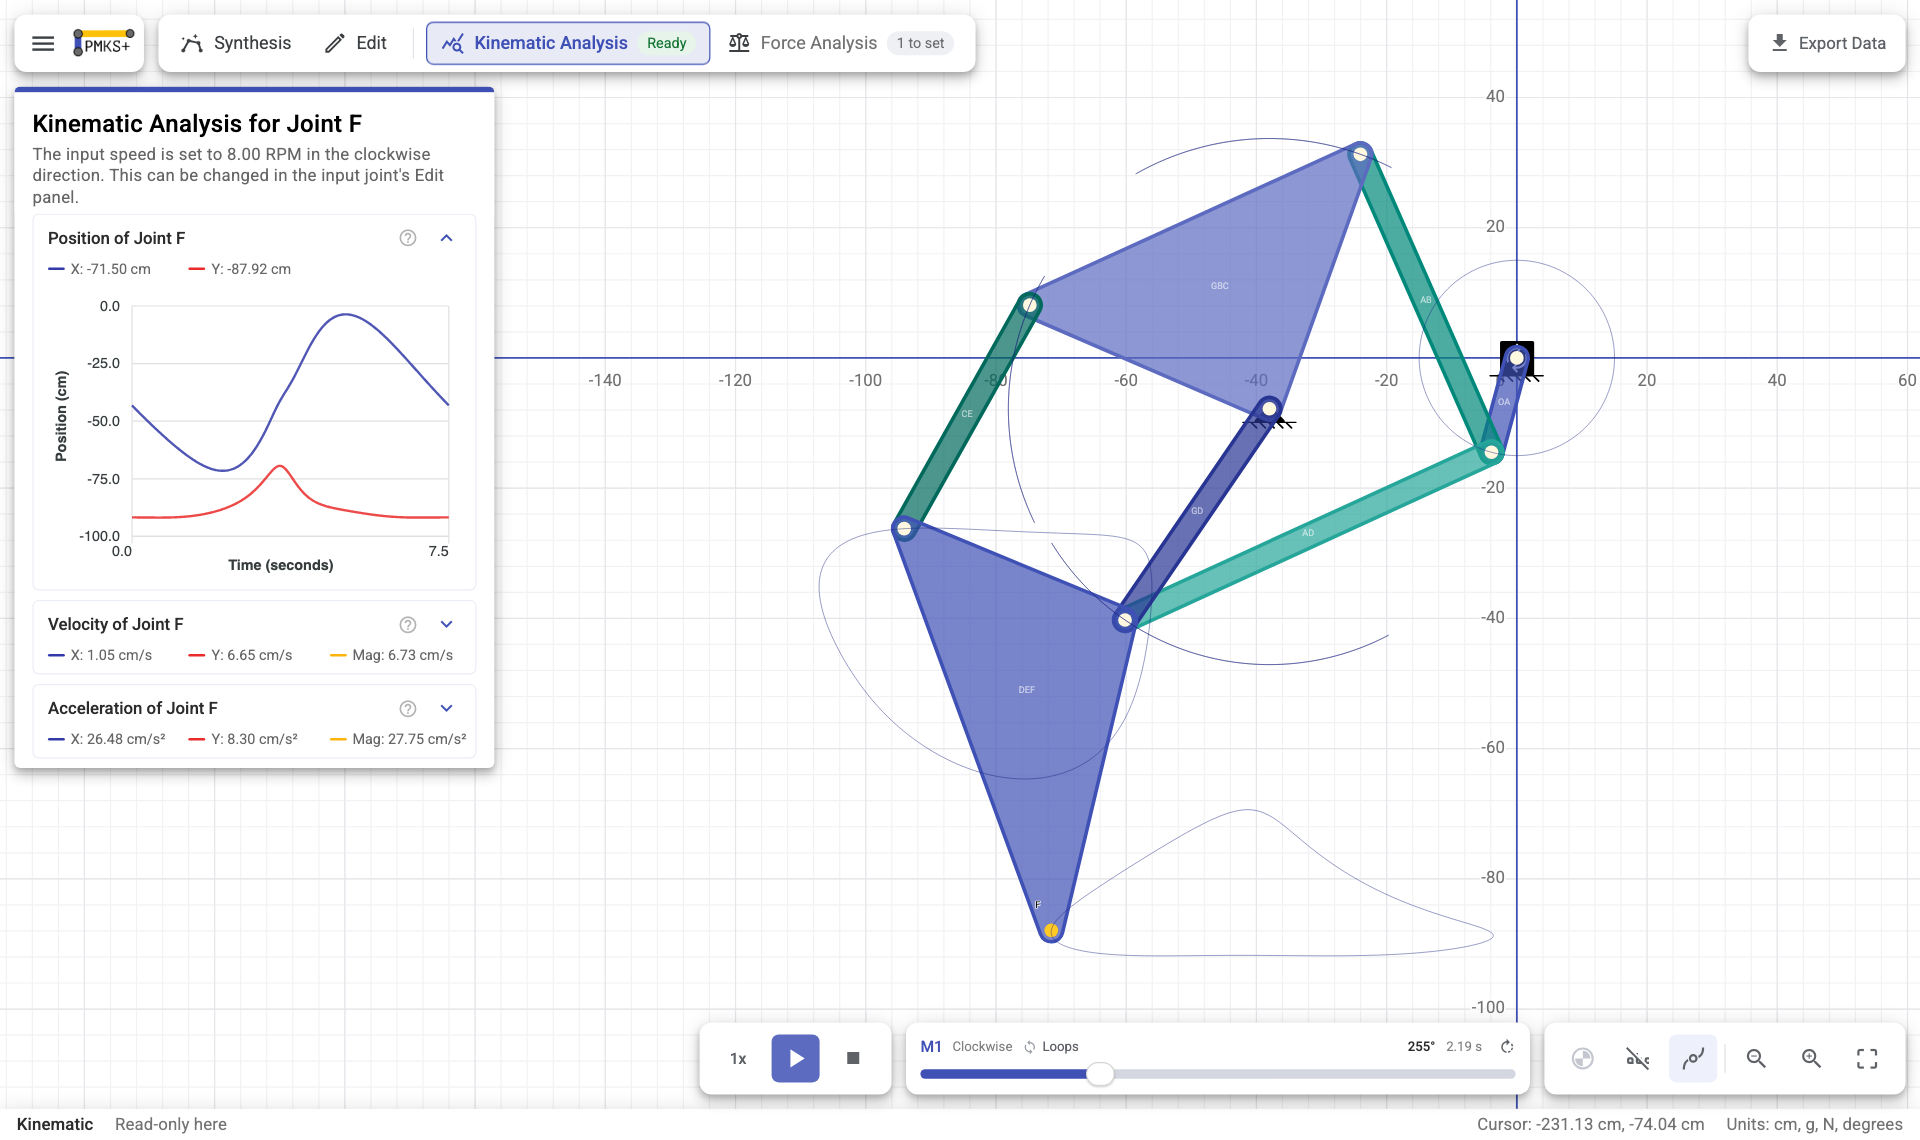
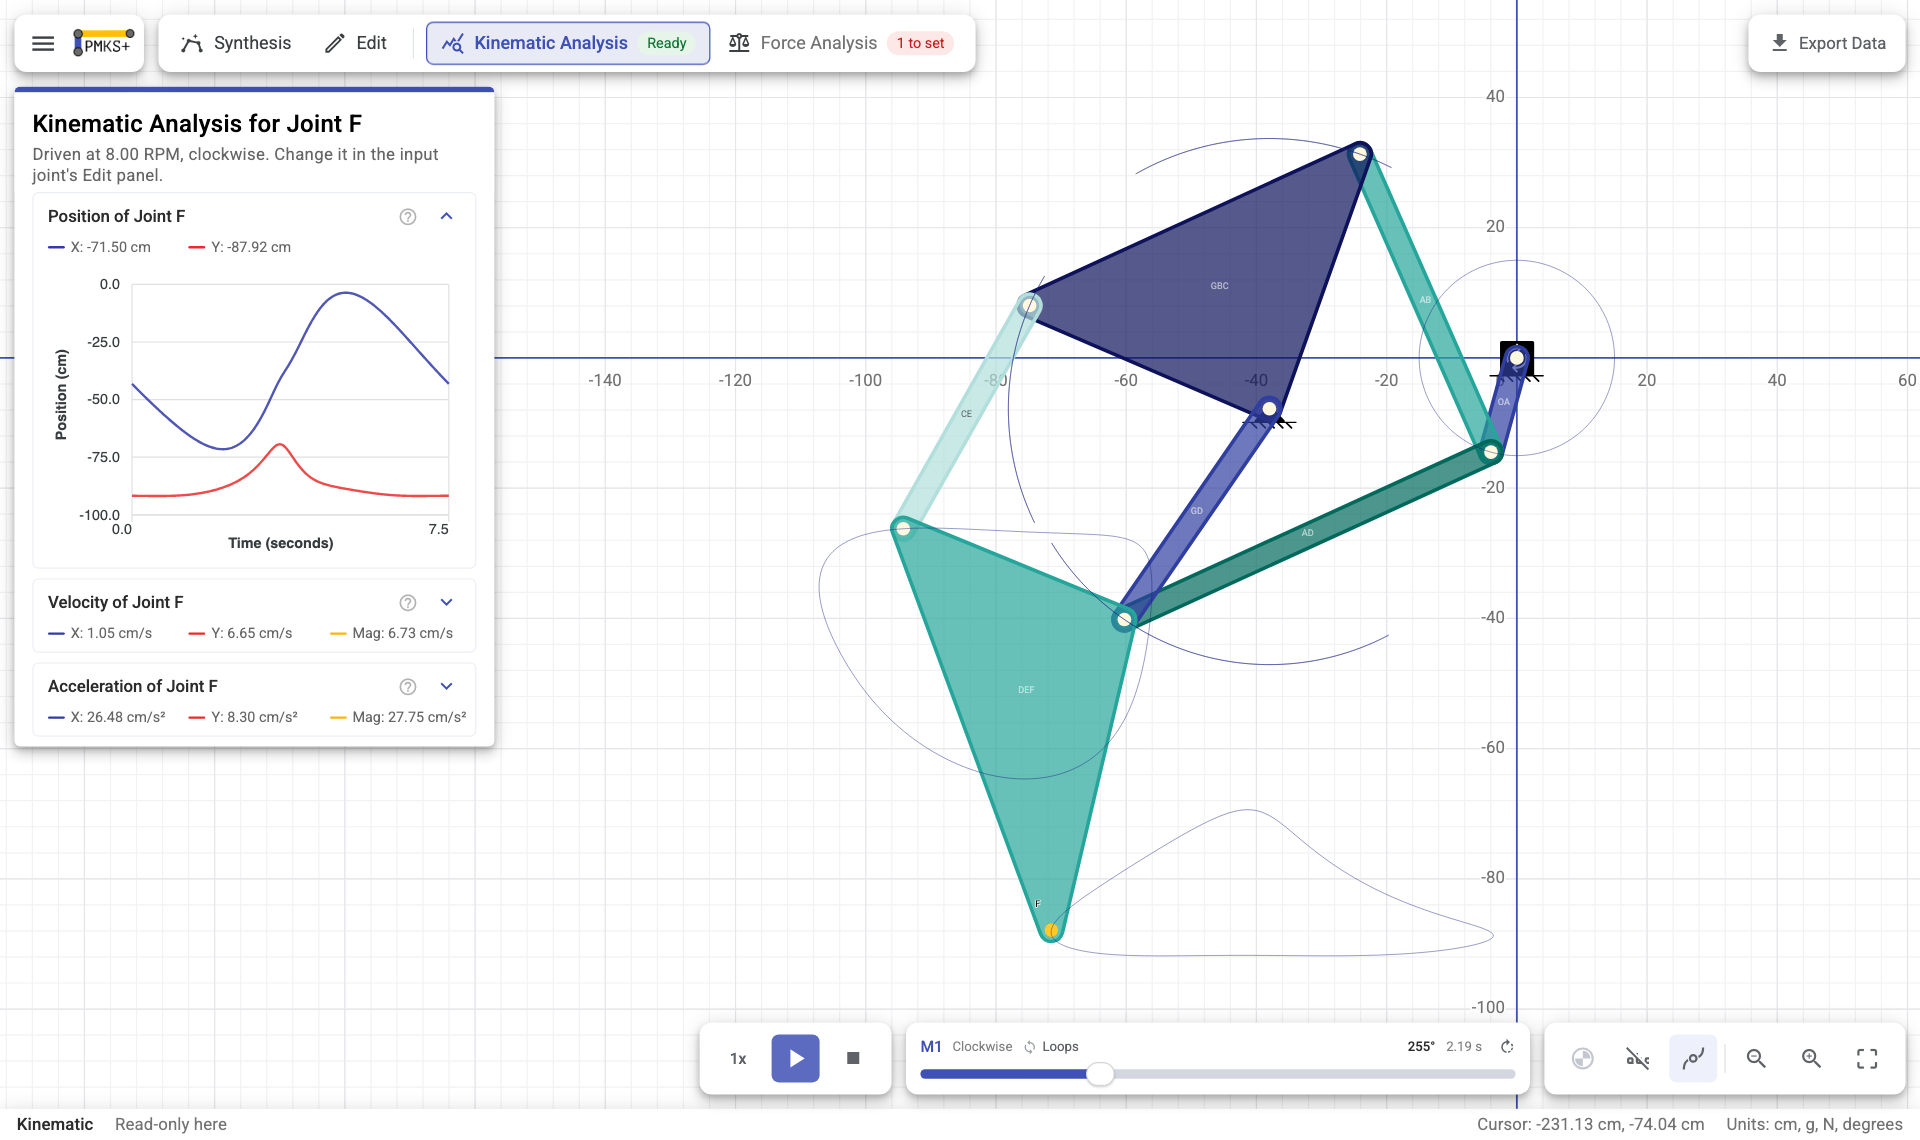
Retake the README's pictures against the merged library
The rewrite was written on a branch cut before the inversion sets landed, so
merging it made three of its own claims false: the library holds forty-one
mechanisms rather than thirty-nine, the gripper is a slot mechanism now and is
called Parallel Gripper, and both inversion sets belong under Many Machines.

The screenshots were stale for a quieter reason. `Force analysis` became
`Force Analysis` in the copy pass and the readiness chips were recoloured, so
every picture of the chrome was a picture of a version that no longer exists.
They are regenerated from this commit's build.

diff --git a/README.md b/README.md
@@ -335,7 +335,7 @@ masses, colours and the document's settings) rather than reversing one field.
 
 ## Mechanism library
 
-**39 mechanisms**, in eight families, each one a linkage the verification suite already covers.
+**41 mechanisms**, in eight families, each one a linkage the verification suite already covers.
 The library filters by family and by name; opening one on an empty grid loads it in place, and
 opening one over existing work offers a new tab, a replace (which is undoable), or a cancel.
 
@@ -373,7 +373,7 @@ it.*
 <td align="center"><img src="src/assets/gifs/cylinder-boom.png" width="190" alt="Cylinder-Driven Boom"><br><b>Cylinder-Driven Boom</b></td>
 <td align="center"><img src="src/assets/gifs/backhoe-bucket.png" width="190" alt="Backhoe Bucket"><br><b>Backhoe Bucket</b></td>
 <td align="center"><img src="src/assets/gifs/scissor-lift.png" width="190" alt="Scissor Lift"><br><b>Scissor Lift</b></td>
-<td align="center"><img src="src/assets/gifs/cylinder-gripper.png" width="190" alt="Gripper"><br><b>Gripper</b></td>
+<td align="center"><img src="src/assets/gifs/slider-crank-inversions.png" width="190" alt="Slider-Crank Inversions"><br><b>Slider-Crank Inversions</b></td>
 </tr>
 <tr>
 <td align="center"><img src="src/assets/gifs/chebyshev.png" width="190" alt="Chebyshev Straight-Line"><br><b>Chebyshev Straight-Line</b></td>
@@ -402,12 +402,12 @@ it.*
 | --- | --- |
 | **Start Here** | Four-Bar · Slider-Crank · Drag Link · Bell Crank · Locked Four-Bar · Loader Bucket |
 | **Six-Bars and Harder** | Watt I · Watt II · Stephenson III · Double Butterfly |
-| **Slots and Sliders** | Whitworth Quick-Return · Shaper Quick-Return · Scotch Yoke · Radial Engine · Elliptical Crank · Engine with a Flywheel · Screw Jack · Elliptical Trammel |
-| **Cylinders** | Cylinder-Driven Boom · Gripper · Backhoe Bucket · Scissor Lift |
+| **Slots and Sliders** | Whitworth Quick-Return · Shaper Quick-Return · Scotch Yoke · Radial Engine · Elliptical Crank · Engine with a Flywheel · Screw Jack · Elliptical Trammel · Parallel Gripper |
+| **Cylinders** | Cylinder-Driven Boom · Backhoe Bucket · Scissor Lift |
 | **Paths and Curves** | Chebyshev Straight-Line · Jansen Leg · Windshield Wiper · Peaucellier–Lipkin · Pantograph |
 | **Forces** | Punch Press · Derrick Crane · Toggle Clamp · Offset Load Rocker · Crane with Two Loads |
 | **Unusual Drives** | Oscillating Fan · Pumpjack · Pedaling Leg |
-| **Many Machines** | Three Machines · Walking Pair · Approximate and Exact · Pumping Field |
+| **Many Machines** | Three Machines · Walking Pair · Approximate and Exact · Pumping Field · Four-Bar Inversions · Slider-Crank Inversions |
 
 </details>
 
